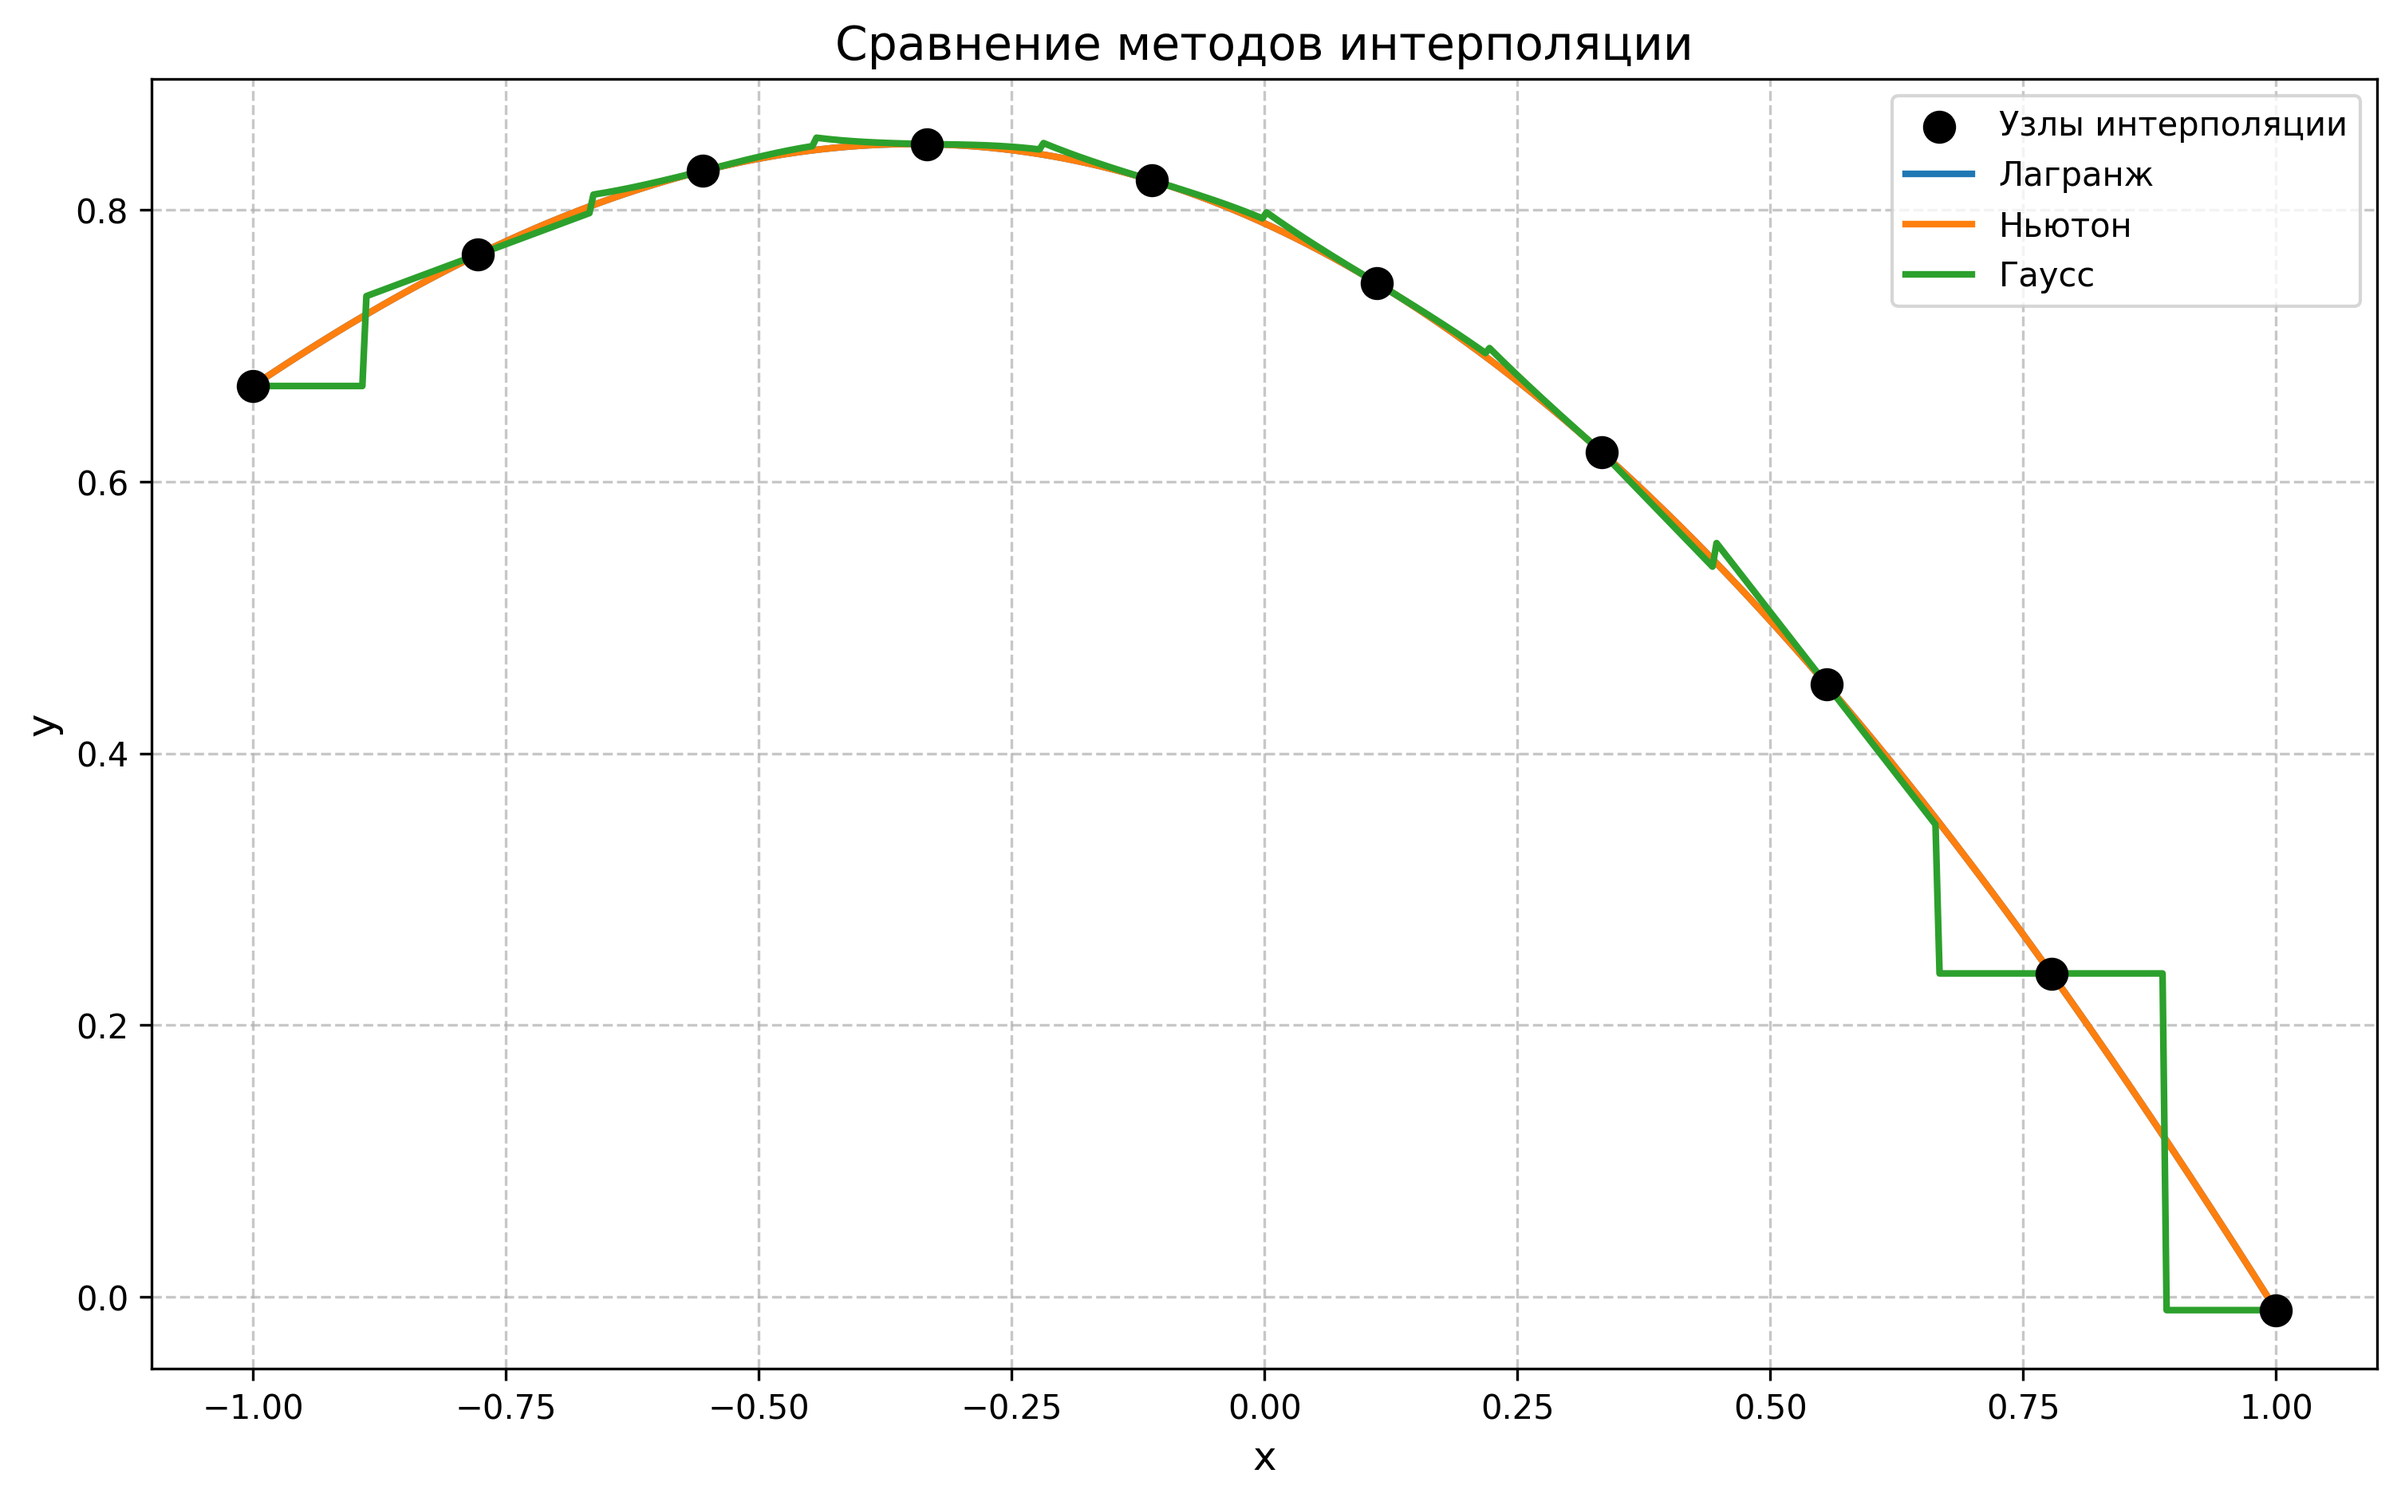
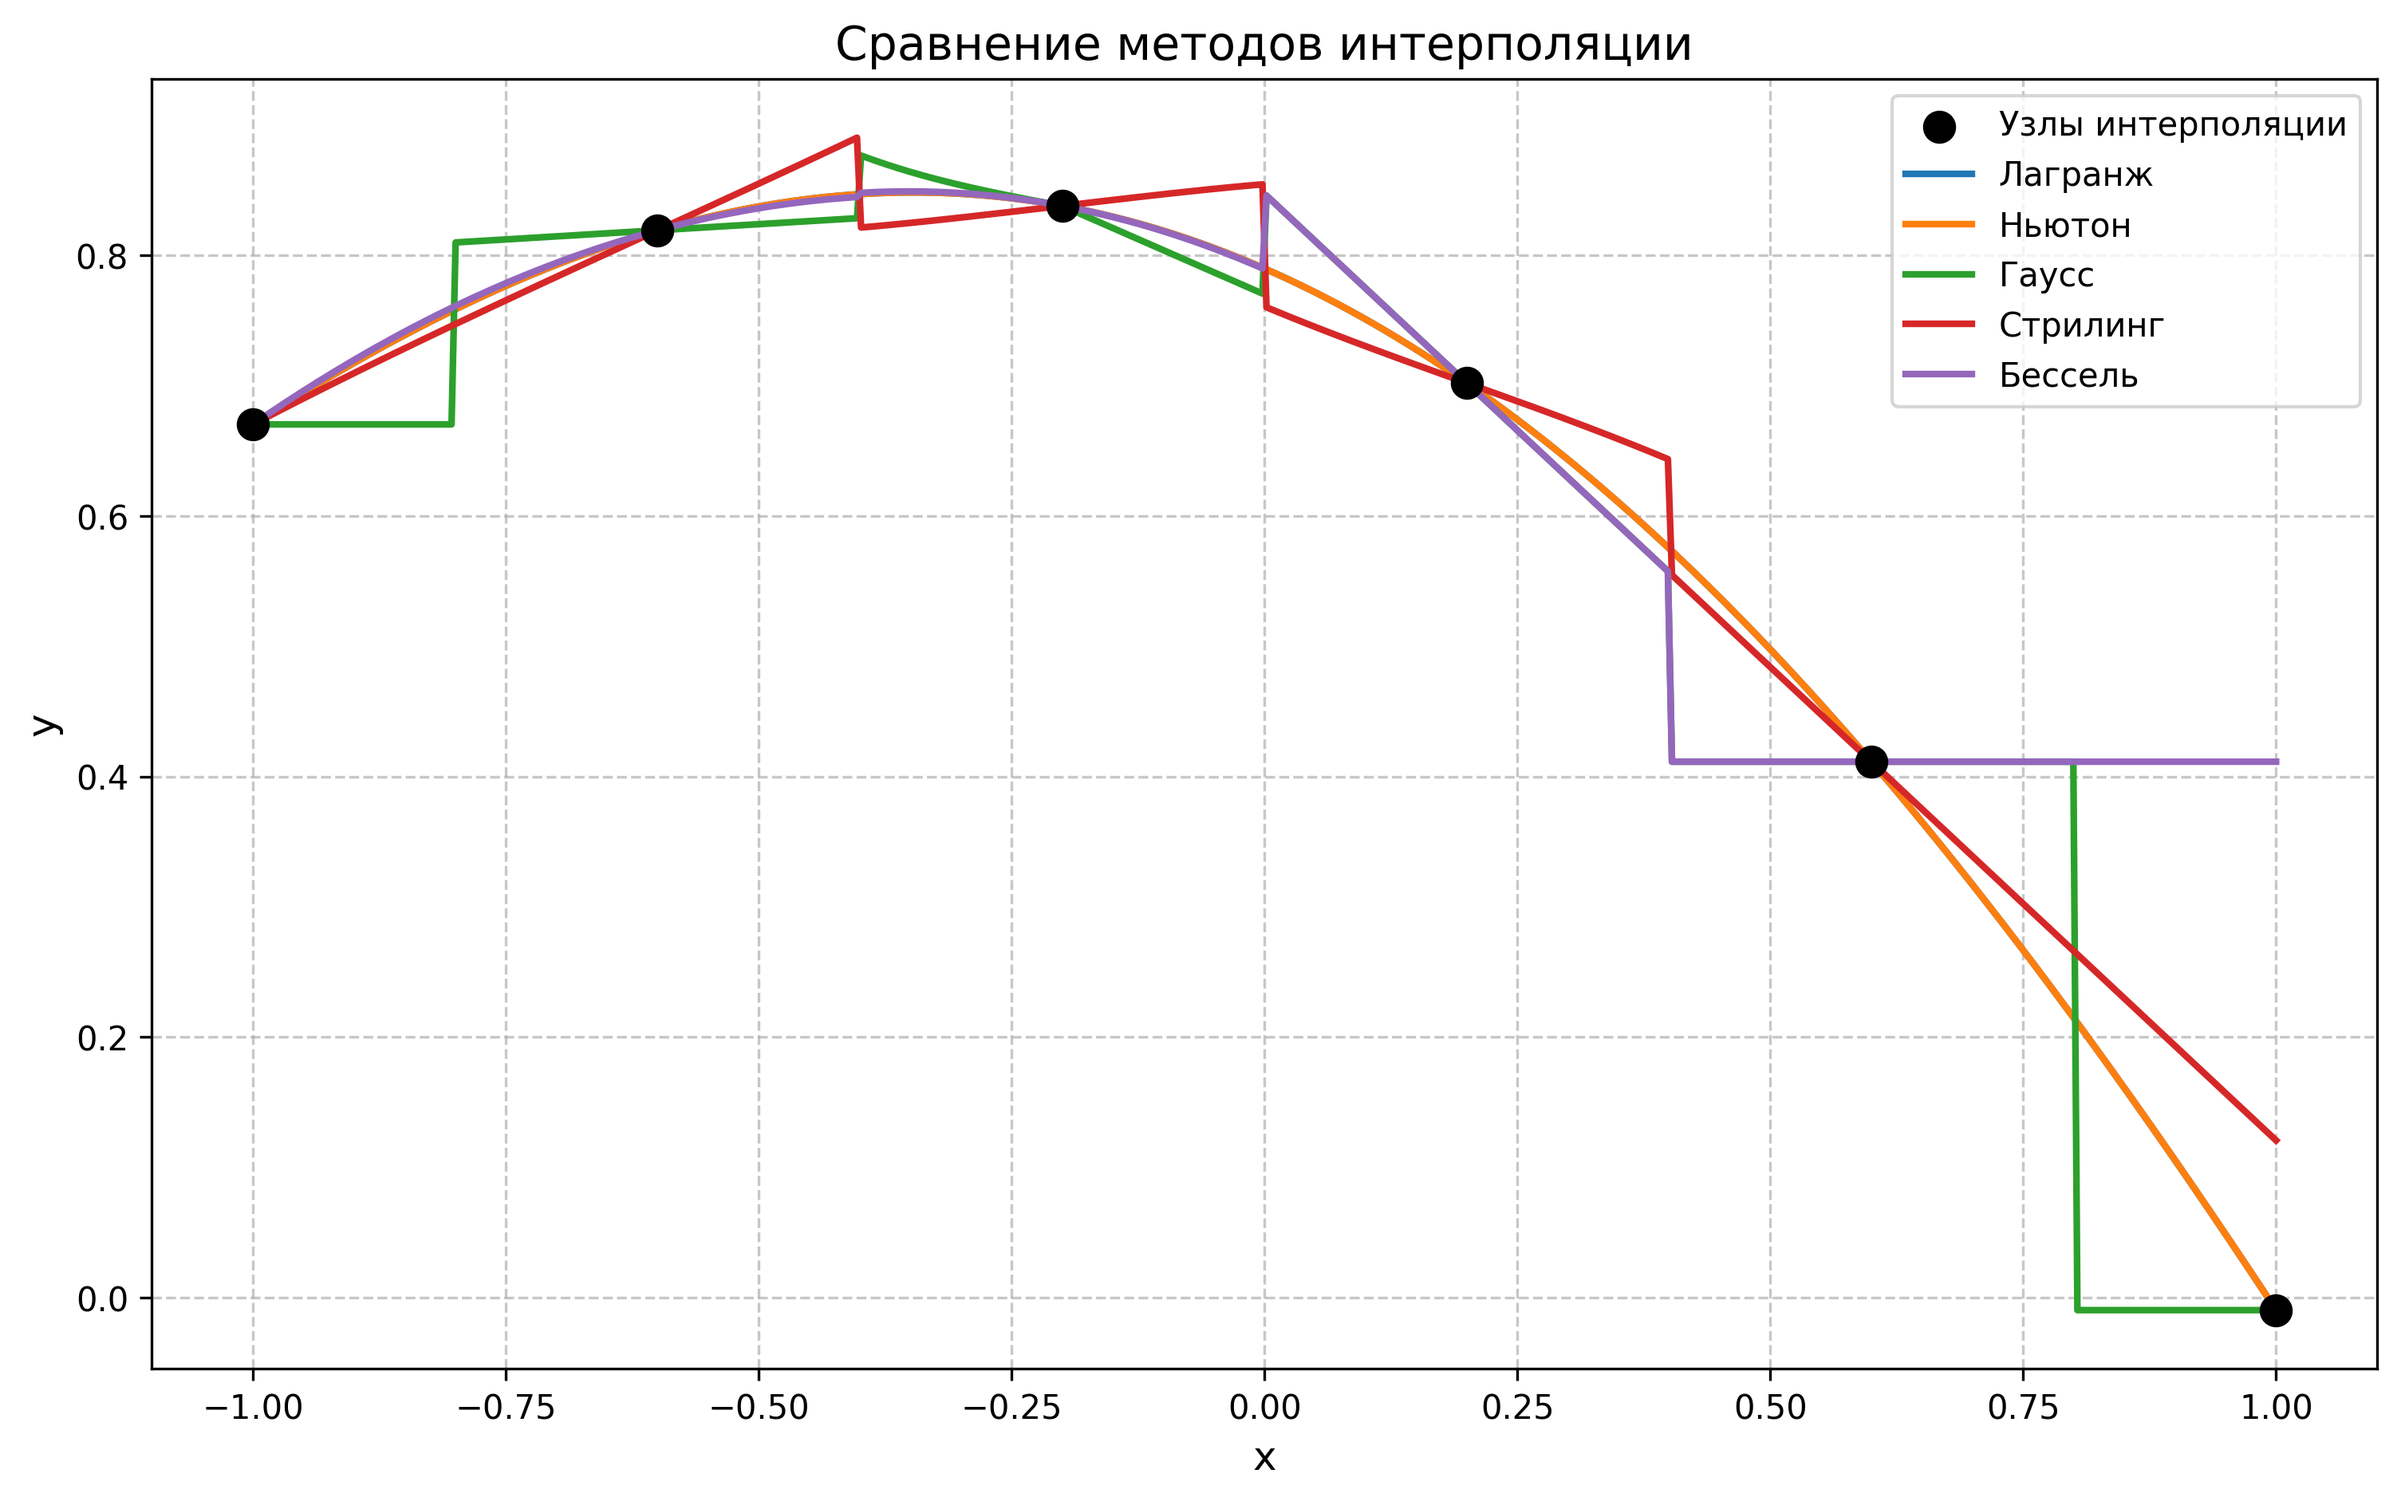
done extra comp_math lab5

diff --git a/comp_math/lab5/src/math_module.py b/comp_math/lab5/src/math_module.py
@@ -31,6 +31,71 @@ def create_difference_table(table):
 
     return difference_table
 
+
+def create_central_difference_table(table):
+    n = len(table[0])
+    diff_table = [list(table[1])]
+
+    for i in range(1, n):
+        current_diff = []
+        for j in range(n - i):
+            if i % 2 == 1:
+                current_diff.append(diff_table[i - 1][j + 1] - diff_table[i - 1][j])
+            else:
+                current_diff.append((diff_table[i - 1][j + 1] - diff_table[i - 1][j - 1]) / 2)
+        diff_table.append(current_diff)
+
+    return diff_table
+
+
+def create_bessel_difference_table(table):
+    x, y = table[0], table[1]
+    n = len(x)
+    diff_table = [list(y)]
+
+    for i in range(1, n):
+        current_diff = []
+        for j in range(n - i):
+            current_diff.append(diff_table[i - 1][j + 1] - diff_table[i - 1][j])
+        diff_table.append(current_diff)
+
+    return diff_table
+
+
+def method_bessel(x, table):
+    x_values = np.array(table[0])
+    y_values = np.array(table[1])
+    n = len(x_values)
+
+    if n < 2:
+        return y_values[0] if n == 1 else 0.0
+
+    h = x_values[1] - x_values[0]
+    if not np.allclose(np.diff(x_values), h, atol=1e-6):
+        return -1
+
+    mid_idx = np.argmin(np.abs(x_values - x))
+    mid_idx = min(max(mid_idx, 1), n - 2)
+
+    a = x_values[mid_idx]
+    t = (x - a) / h
+
+    diff_table = create_bessel_difference_table(table)
+
+    result = y_values[mid_idx]
+    term = 1.0
+
+    for i in range(1, len(diff_table)):
+        idx = mid_idx - (i // 2)
+        if idx < 0 or idx + i >= len(diff_table[i]):
+            break
+
+        delta = diff_table[i][idx]
+        term *= (t - (-1) ** i * (i // 2)) / math.factorial(i)
+        result += delta * term
+
+    return result
+
 def method_langrange(x, table):
     x_values = table[0]
     y_values = table[1]
@@ -43,6 +108,54 @@ def method_langrange(x, table):
             if j != i:
                 term *= (x - x_values[j]) / (x_values[i] - x_values[j])
         result += term
+
+    return result
+
+
+def method_stirling(x, table):
+    x_values = np.array(table[0])
+    y_values = np.array(table[1])
+    n = len(x_values)
+
+    if n < 2:
+        return y_values[0] if n == 1 else 0.0
+
+    h = x_values[1] - x_values[0]
+    if not np.allclose(np.diff(x_values), h, atol=1e-6):
+        return -1
+
+    mid_idx = np.argmin(np.abs(x_values - x))
+    mid_idx = min(max(mid_idx, 1), n - 2)
+
+    a = x_values[mid_idx]
+    t = (x - a) / h
+
+    diff_table = create_central_difference_table(table)
+
+    result = y_values[mid_idx]
+    term = t
+    factorial = 1
+
+    max_steps = min(4, len(diff_table) - 1)
+    for i in range(1, max_steps + 1):
+        delta = 0.0
+        order = (i + 1) // 2
+
+        lower_bound = mid_idx - order
+        upper_bound = mid_idx - order + 1
+
+        if i % 2 == 1:  #
+            if lower_bound >= 0 and lower_bound < len(diff_table[i]):
+                delta = diff_table[i][lower_bound]
+        else:
+            if (lower_bound >= 0 and upper_bound < len(diff_table[i])):
+                delta = (diff_table[i][lower_bound] + diff_table[i][upper_bound]) / 2
+
+        if delta == 0.0:
+            break
+
+        result += delta * term / math.factorial(i)
+        term *= (t ** 2 - order ** 2) / (2 * order + 1)
 
     return result
 

diff --git a/comp_math/lab5/src/command.py b/comp_math/lab5/src/command.py
@@ -118,7 +118,9 @@ def save_plot(table, output_file="plot.png"):
     methods = [
         (method_langrange, "Лагранж"),
         (method_newton, "Ньютон"),
-        (method_gauss, "Гаусс")
+        (method_gauss, "Гаусс"),
+        (method_stirling, "Стрилинг"),
+        (method_bessel, "Бессель")
     ]
     if flag:
         methods = [
@@ -227,7 +229,9 @@ def start():
     print("1. Многочлен Лагранжа")
     print("2. Многочлен Ньютона с разделенными разностями")
     print("3. Многочлен Гаусса")
-    print("4. Все методы")
+    print("4. Многочлен Стирлинга")
+    print("5. Многочлен Бесселя")
+    print("6. Все методы")
     n_choice = input("Выберете метод для интерполяции функции: ")
     try:
         x = float(input("Введите значения для нахождения приближенного значения функции: "))
@@ -246,12 +250,25 @@ def start():
     elif n_choice == "3":
         print(f"Метод Гаусса: {method_gauss(x, table)}")
     elif n_choice == "4":
+        print(f"Метод Стирлинга: {method_stirling(x, table)}")
+    elif n_choice == "5":
+        print(f"Метод Бесселя: {method_bessel(x, table)}")
+    elif n_choice == "6":
         print(f"Метод Лагранжа: {method_langrange(x, table)}")
         print(f"Метод Ньютона с разделенными разностями: {method_newton(x, table)}")
         if method_gauss(x, table) == -1:
             flag = True
         else:
             print(f"Метод Гаусса: {method_gauss(x, table)}")
+        if method_stirling(x, table) == -1:
+            flag = True
+        else:
+            print(f"Метод Стирлинга: {method_stirling(x, table)}")
+        if method_bessel(x, table) == -1:
+            flag = True
+        else:
+            print(f"Метод Бесселя: {method_bessel(x, table)}")
+
         save_plot(table)
         clear()
 
